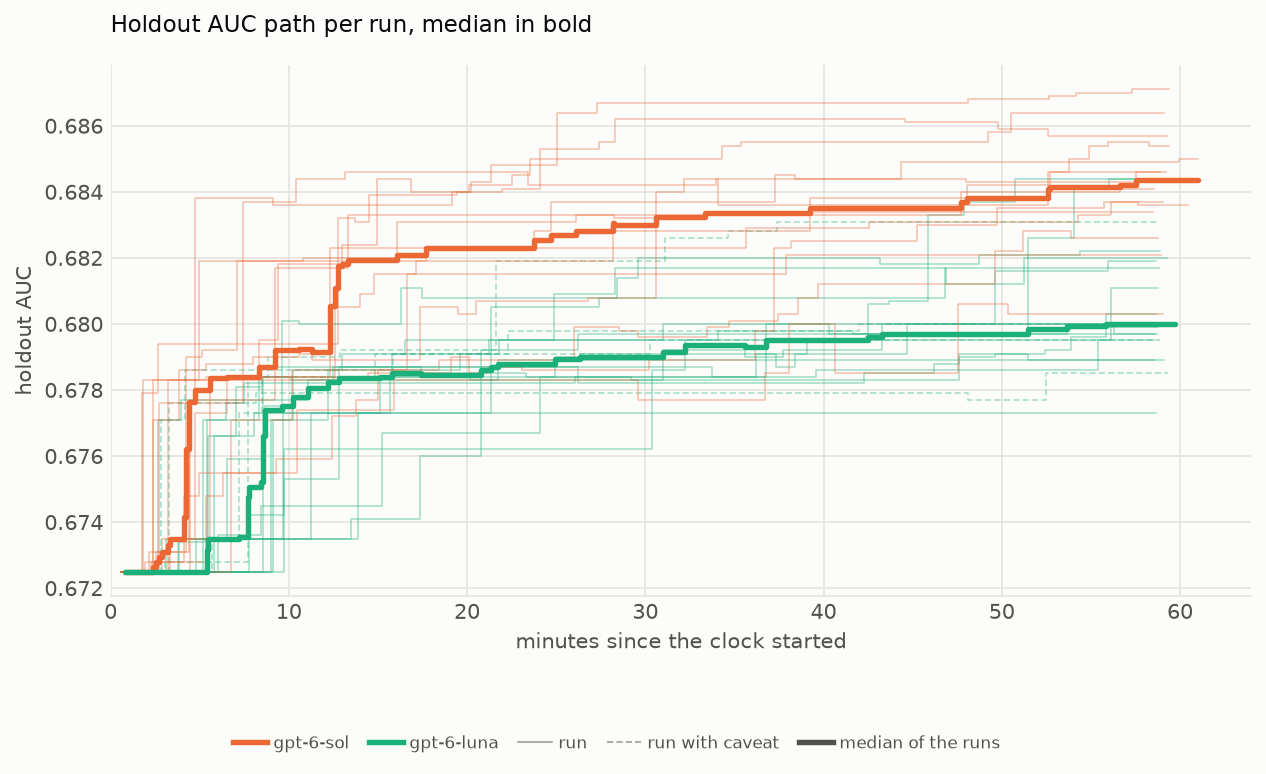
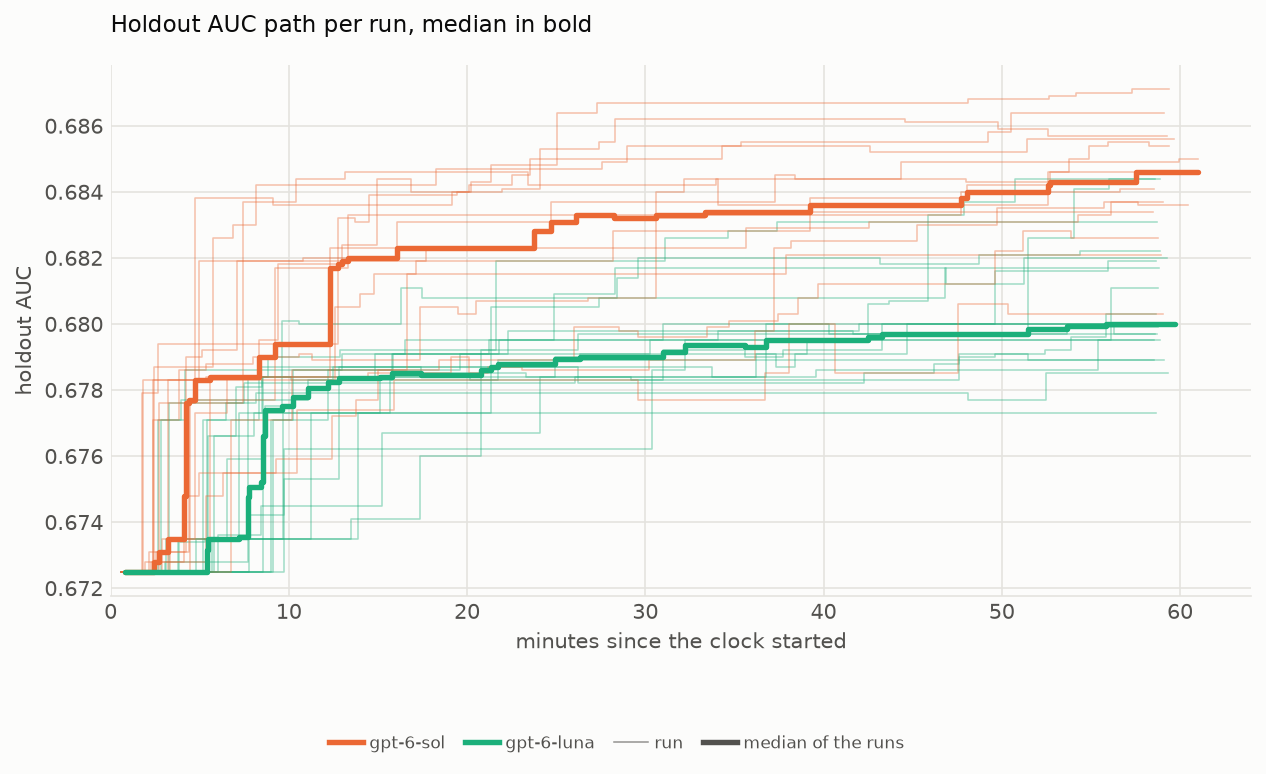
Plots mark caveats by kind; summary with luna6_n20 complete and sol6_n20 runs 1-15
- A caveat run is drawn like any other run unless its kind of caveat is in
  CAVEAT_MARKED (then hollow dot, dashed path). The kept ties of luna6_n20
  (keep_rule_tie) are in CAVEAT_PLAIN, so they are no longer marked.
- keep_rule is split by its source: flagged by the driver's checks (a kept
  lower Eval AUC) or added in the review for a tie (keep_rule_tie).
- summary_table.py warns about a caveat kind without a plotting rule, and
  /xgb-summary stops and asks; the legends show a caveat entry only when a
  run is marked.

diff --git a/tools/plot_holdout_auc.py b/tools/plot_holdout_auc.py
@@ -5,11 +5,12 @@ Reads each group's holdout_auc.tsv (written by /xgb-multi), the model from each
 run's driver-summary.json, the per-experiment scores from its
 holdout_scores.tsv and the harness timing from its timing/ folder. Groups with
 the same model are pooled (all runs are effort max). Runs with valid = "no" are
-left out; caveat runs are drawn hollow/dashed.
+left out. Caveat runs are drawn like any other run, unless one of their caveats
+is of a kind to be marked (see CAVEAT_MARKED): those are drawn hollow/dashed.
 
 run-multi/SUMMARY/holdout_auc_beeswarm.png - one row per model, one dot per run
-  (modelled on Fig. 1 of arXiv:2609.33812): a filled dot per valid run and a
-  hollow dot per caveat run, a grey bar over the full range, the mean with its
+  (modelled on Fig. 1 of arXiv:2609.33812): a filled dot per run and a hollow
+  dot per run with a marked caveat, a grey bar over the full range, the mean with its
   95% confidence interval (t) and the 10th/90th percentiles (nearest run) when
   the row has >= 5 runs.
 
@@ -50,6 +51,11 @@ SERIES = ["#2a78d6", "#eb6834", "#1baf7a", "#eda100", "#e87ba4", "#008300", "#4a
 # colour follows the model in every plot: add new models here with the next free slot;
 # models not listed get the remaining slots in sorted order (and a warning)
 MODEL_SLOT = {"gpt-6-astra": 0, "gpt-6-sol": 1, "gpt-6-luna": 2}
+# caveats by kind (see caveat_kinds): a run is drawn hollow/dashed unless all its caveats are in
+# CAVEAT_PLAIN. Each kind is decided once, when it first turns up: summary_table.py warns about a
+# kind that is in neither set. Never move a kind from one set to the other.
+CAVEAT_MARKED = set()
+CAVEAT_PLAIN = {"keep_rule_tie"}
 SURFACE, INK, INK2, GRID, RANGE = "#fcfcfb", "#0b0b0b", "#52514e", "#e4e3df", "#d9d8d3"
 OTHER_RUNS = "#bebdb7"  # the other models' runs behind each panel of the panels path plot
 MIN_N_STATS = 5  # interval and percentiles only from this many runs up
@@ -59,17 +65,38 @@ RUN_MULTI = Path(__file__).resolve().parent.parent / "run-multi"
 OUT_DIR = RUN_MULTI / "SUMMARY"
 
 
+def caveat_kinds(flags, summary):
+    """The caveats of a run: the flags of its holdout_auc.tsv row, with keep_rule split in two.
+
+    run_checks.py flags keep_rule itself only for a kept commit with a lower Eval AUC
+    (protocol_flags of driver-summary.json). A keep_rule that is in holdout_auc.tsv only
+    was added in the review, for a tie kept without being simpler or faster: keep_rule_tie.
+    """
+    kinds = [k.strip() for k in flags.split(",") if k.strip()]
+    if "keep_rule" not in summary.get("protocol_flags", "").split():
+        kinds = ["keep_rule_tie" if k == "keep_rule" else k for k in kinds]
+    return kinds
+
+
 def load_group(gdir):
-    """Runs of one group as dicts: run, dir, model, holdout, valid."""
+    """Runs of one group as dicts: run, dir, model, holdout, valid, marked (its caveats not in CAVEAT_PLAIN)."""
     runs = []
     with open(gdir / "holdout_auc.tsv") as f:
         for r in csv.DictReader(f, delimiter="\t"):
             if r["valid"] not in ("yes", "caveat") or not r["holdout_auc"]:
                 continue
             summary = json.loads((gdir / r["run"] / "driver-summary.json").read_text())
+            kinds = caveat_kinds(r.get("flags") or "", summary) if r["valid"] == "caveat" else []
             runs.append({"run": r["run"], "dir": gdir / r["run"], "model": summary["model"],
-                         "holdout": float(r["holdout_auc"]), "valid": r["valid"]})
+                         "holdout": float(r["holdout_auc"]), "valid": r["valid"],
+                         "marked": [k for k in kinds if k not in CAVEAT_PLAIN]})
     return runs
+
+
+def marked_label(runs):
+    """Legend label of the runs drawn hollow/dashed, None if there are none."""
+    kinds = sorted({k for r in runs for k in r["marked"]})
+    return f"run with caveat ({', '.join(kinds)})" if kinds else None
 
 
 def keep_path(run_dir):
@@ -173,7 +200,7 @@ def strip_plot(runs, colour):
         # diameter: marker size 46 pt^2 -> ~6.8 pt, plus the 1.4 pt edge, plus 0.6 pt of air
         dys = swarm_offsets(x, ax, y, np.sqrt(46) + 1.4 + 0.6)
         for r, dy in zip(rr, dys):
-            filled = r["valid"] == "yes"
+            filled = not r["marked"]
             ax.scatter(r["holdout"], y + dy, s=46, zorder=3, linewidths=1.4,
                        facecolors=colour[m] if filled else SURFACE, edgecolors=colour[m])
         mean = x.mean()
@@ -191,10 +218,11 @@ def strip_plot(runs, colour):
     ax.set_xlabel("holdout AUC", color=INK2)
     ax.grid(axis="x", color=GRID, lw=0.8)
     style(ax, "Holdout AUC per run")
+    caveat = marked_label(runs)
     legend = [
         Line2D([], [], marker="o", ls="", color=INK2, markersize=7, label="run"),
-        Line2D([], [], marker="o", ls="", markerfacecolor=SURFACE, markeredgecolor=INK2, markersize=7,
-               label="run with caveat"),
+        *([Line2D([], [], marker="o", ls="", markerfacecolor=SURFACE, markeredgecolor=INK2, markersize=7,
+                  label=caveat)] if caveat else []),
         Line2D([], [], marker="o", color=INK, markersize=5, lw=1.6, label=f"mean, 95% CI of the mean (n >= {MIN_N_STATS})"),
         Line2D([], [], marker="|", ls="", color=INK2, markersize=9, markeredgewidth=1.6, label="10th and 90th percentile"),
     ]
@@ -225,7 +253,7 @@ def draw_runs(ax, runs, colour_of, lw, alpha):
             continue
         t, auc = zip(*path)
         ax.step(list(t) + [end], list(auc) + [auc[-1]], where="post", color=colour_of(r),
-                lw=lw, alpha=alpha, ls="-" if r["valid"] == "yes" else (0, (4, 2)), zorder=2)
+                lw=lw, alpha=alpha, ls=(0, (4, 2)) if r["marked"] else "-", zorder=2)
 
 
 def draw_median(ax, runs, m, colour, lw=2.4):
@@ -252,9 +280,10 @@ def path_panels(runs, colour):
         ax.set_xlabel("minutes since the clock started", color=INK2)
     axes[0].set_ylabel("holdout AUC", color=INK2)
     fig.suptitle("Holdout AUC path per run, one panel per model", x=0.07, ha="left", color=INK, fontsize=11)
+    caveat = marked_label(runs)
     legend = [
         Line2D([], [], color=INK2, lw=0.9, label="run"),
-        Line2D([], [], color=INK2, lw=0.9, ls=(0, (4, 2)), label="run with caveat"),
+        *([Line2D([], [], color=INK2, lw=0.9, ls=(0, (4, 2)), label=caveat)] if caveat else []),
         Line2D([], [], color=INK2, lw=2.4, label="median of the runs"),
         Line2D([], [], color=OTHER_RUNS, alpha=0.8, lw=1.2, label="other models' runs"),
     ]
@@ -275,9 +304,10 @@ def path_median(runs, colour):
     ax.grid(color=GRID, lw=0.8)
     ax.set_xlim(left=0)
     style(ax, "Holdout AUC path per run, median in bold")
+    caveat = marked_label(runs)
     legend = [Line2D([], [], color=colour[m], lw=2.6, label=m) for m in models] + [
         Line2D([], [], color=INK2, lw=0.75, alpha=0.6, label="run"),
-        Line2D([], [], color=INK2, lw=0.75, alpha=0.6, ls=(0, (4, 2)), label="run with caveat"),
+        *([Line2D([], [], color=INK2, lw=0.75, alpha=0.6, ls=(0, (4, 2)), label=caveat)] if caveat else []),
         Line2D([], [], color=INK2, lw=2.6, label="median of the runs"),
     ]
     fig.legend(handles=legend, loc="lower center", bbox_to_anchor=(0.5, -0.02),
@@ -291,6 +321,9 @@ def main():
     if not runs:
         sys.exit(f"no valid runs in {RUN_MULTI}")
 
+    for k in sorted({k for r in runs for k in r["marked"]} - CAVEAT_MARKED):
+        print(f"warning: caveat {k} has no plotting rule (drawn as marked); add it to CAVEAT_MARKED or CAVEAT_PLAIN",
+              file=sys.stderr)
     colour = model_colours({r["model"] for r in runs})
     strip_plot(runs, colour)
     path_panels(runs, colour)

diff --git a/tools/summary_table.py b/tools/summary_table.py
@@ -12,12 +12,13 @@ Prints
   budget, memory cap), which should be the same for all runs that are compared;
 - the table, as markdown: one row per model, the best mean on top, AUCs rounded
   to 4 decimals, sd the sample standard deviation (n - 1);
-- NOTE lines for the caveats, the exclusions and valid runs with integrity
-  flags (to be explained in the run's run.md);
+- NOTE lines for the caveats (with how the plots draw them), the exclusions
+  and valid runs with integrity flags (to be explained in the run's run.md);
 - WARNING lines for anything that doesn't fit: a group that looks like a test,
   a row of holdout_auc.tsv that disagrees with the run's driver-summary.json, a
   valid run without a holdout AUC or of a failed driver, a run folder that is
-  not in holdout_auc.tsv, mixed settings.
+  not in holdout_auc.tsv, mixed settings, a caveat of a kind that has no
+  plotting rule yet (CAVEAT_MARKED / CAVEAT_PLAIN of plot_holdout_auc.py).
 
 Usage:
     tools/summary_table.py
@@ -28,7 +29,7 @@ import statistics as st
 import sys
 from collections import Counter, defaultdict
 
-from plot_holdout_auc import RUN_MULTI
+from plot_holdout_auc import CAVEAT_MARKED, CAVEAT_PLAIN, RUN_MULTI, caveat_kinds
 
 SETTINGS = ["codex_version", "effort", "upstream", "time_budget_s", "memory_limit_bytes"]
 
@@ -48,6 +49,7 @@ def main():
     notes, warnings = [], []
     models = defaultdict(lambda: {"groups": [], "holdout": [], "caveat": 0, "excluded": 0})
     settings = {k: Counter() for k in SETTINGS}
+    no_rule = defaultdict(list)  # caveat kind -> runs, for kinds the plots have no rule for
 
     print("groups:")
     for g in groups:
@@ -97,7 +99,15 @@ def main():
                     notes.append(f"{r['run']} is valid with integrity flags: {s['integrity_flags']}")
                 if valid == "caveat":
                     m["caveat"] += 1
-                    notes.append(f"{r['run']} caveat: {flags or 'no flags given'}")
+                    kinds = caveat_kinds(flags, s)
+                    marked = [k for k in kinds if k not in CAVEAT_PLAIN]
+                    notes.append(f"{r['run']} caveat: {flags or 'no flags given'}; in the plots: "
+                                 f"{'marked' if marked else 'as any other run'} ({', '.join(kinds) or 'no kind'})")
+                    for k in kinds:
+                        if k not in CAVEAT_MARKED | CAVEAT_PLAIN:
+                            no_rule[k].append(r["run"])
+                    if not kinds:
+                        warnings.append(f"{r['run']}: valid = caveat without flags")
                 elif flags:
                     warnings.append(f"{r['run']}: valid = yes with flags: {flags}")
             else:
@@ -110,6 +120,10 @@ def main():
             warnings.append(f"group {g.name} looks like a test group: its runs are pooled with all other {model} runs")
         print(f"  {g.name}: {model}, {len(rows)} runs: {n['yes'] + n['caveat']} valid "
               f"({n['caveat']} with caveat), {n['no']} excluded")
+
+    for k, runs in no_rule.items():
+        warnings.append(f"caveat {k} ({', '.join(runs)}) has no plotting rule: add it to CAVEAT_MARKED "
+                        "or CAVEAT_PLAIN in tools/plot_holdout_auc.py")
 
     print("\nsettings of the valid runs:")
     for k in SETTINGS:

diff --git a/.claude/skills/xgb-summary/SKILL.md b/.claude/skills/xgb-summary/SKILL.md
@@ -31,8 +31,9 @@ yourself: every number in the README comes from the scripts' output.
      archive/<group>`; do that only if I say so). Its runs would be pooled
      with all other runs of that model.
    - **a row of holdout_auc.tsv disagrees with driver-summary.json**, a wrong
-     gap, a `valid` that is not yes, caveat or no, or `valid` = yes with
-     flags: stop and tell me which rows. Don't correct the files yourself.
+     gap, a `valid` that is not yes, caveat or no, `valid` = yes with
+     flags, or `valid` = caveat without flags: stop and tell me which rows.
+     Don't correct the files yourself.
    - **a valid run without a holdout AUC**, or valid although the driver's
      status is failed: stop and tell me.
    - **mixed effort, upstream or time_budget_s**: stop and ask me. Runs at a
@@ -45,6 +46,17 @@ yourself: every number in the README comes from the scripts' output.
      the README notes that the group is in progress.
    - **more than one model in a group**, or a missing driver-summary.json:
      stop and tell me.
+   - **a caveat that has no plotting rule**: a kind of caveat that turns up
+     for the first time. Stop and ask me whether runs with it are to be
+     marked in the plots (hollow dots, dashed lines) or drawn like any other
+     run. Tell me what the caveat is and what it did to the result, from the
+     runs' run.md. Then add the kind to `CAVEAT_MARKED` or `CAVEAT_PLAIN` in
+     `tools/plot_holdout_auc.py` as I say, and run `summary_table.py` again.
+     Never move a kind that is already in one of the two sets. The kinds are
+     the flags of holdout_auc.tsv, except that `keep_rule` is split: it
+     stays `keep_rule` when the driver's own checks flagged it (a kept
+     commit with a lower Eval AUC) and is `keep_rule_tie` when it was added
+     in the review (a tie kept without being simpler or faster).
 
 2. Run `tools/plot_holdout_auc.py`, then `tools/pairwise_win_prob.py`. They
    write the PNGs to `run-multi/SUMMARY/`.
@@ -54,13 +66,15 @@ yourself: every number in the README comes from the scripts' output.
      model that is already there: the colour follows the model in all plots.
    - With fewer than two models there is no head-to-head plot. With fewer
      than 5 runs a model has no interval, percentile marks or median path.
-     Both are as intended.
+     The legends have a "run with caveat" entry only when a run is marked.
+     All are as intended.
 
 3. Look at every PNG in `run-multi/SUMMARY/` that was just written. Each
    model with valid runs must be there, with as many dots or lines as the
-   table has valid runs; nothing cut off, overlapping or unreadable; the
-   range of the dots in the beeswarm plot must match the table's min and
-   max. If a plot is wrong, tell me what is wrong. Don't restyle the plots
+   table has valid runs; the runs whose NOTE line says "marked" hollow
+   (dashed in the path plots) and no others; nothing cut off, overlapping
+   or unreadable; the range of the dots in the beeswarm plot must match the
+   table's min and max. If a plot is wrong, tell me what is wrong. Don't restyle the plots
    yourself.
 
 4. In README.md, replace everything between the lines
@@ -75,7 +89,8 @@ yourself: every number in the README comes from the scripts' output.
      the starter `train.py` scores 0.6725:"
    - The markdown table exactly as printed.
    - One short paragraph of notes, from the NOTE lines: which caveats there
-     are and how many runs carry each; how many runs were excluded and why,
+     are, how many runs carry each and whether the plots mark them; how
+     many runs were excluded and why,
      in a few words each (or "No run was excluded."); which groups are in
      progress; anything mixed from step 1. A valid run with integrity flags
      must be explained in its run.md: read it, and tell me if it is not.

diff --git a/README.md b/README.md
@@ -27,19 +27,21 @@ All runs with codex-cli 0.160.0 at effort max, a 24 GB container memory cap and 
 
 | model | groups | valid runs | excluded | holdout AUC mean | sd | min | median | max |
 |---|---|---|---|---|---|---|---|---|
-| gpt-6-sol | [sol6_n20](run-multi/sol6_n20/results_summary.md) | 14 | 0 | 0.6842 | 0.0018 | 0.6803 | 0.6844 | 0.6871 |
+| gpt-6-sol | [sol6_n20](run-multi/sol6_n20/results_summary.md) | 15 | 0 | 0.6843 | 0.0018 | 0.6803 | 0.6846 | 0.6871 |
 | gpt-6-luna | [luna6_n20](run-multi/luna6_n20/results_summary.md) | 20 (4 with caveat) | 0 | 0.6806 | 0.0019 | 0.6773 | 0.6800 | 0.6844 |
 
-Four runs carry a caveat, all `keep_rule` (commits kept at an equal Eval AUC without being simpler or faster): luna6_n20-6, -8, -15 and -18. No run was excluded. luna6_n20 is complete (20 runs); sol6_n20 is in progress, with 14 of its 20 runs reviewed so far. luna6_n20-1, -7, -11, -15 and sol6_n20-12 are valid with a `train_py_review` flag, a false match explained in their `run.md`. The test group test1 was moved to `archive/` and is not included. All valid runs have the same settings.
+Four runs carry a caveat, all `keep_rule` (commits kept at an equal Eval AUC without being simpler or faster): luna6_n20-6, -8, -15 and -18; the plots draw them like any other run. No run was excluded. luna6_n20 is complete (20 runs); sol6_n20 is in progress, with 15 of its 20 runs reviewed so far. luna6_n20-1, -7, -11, -15 and sol6_n20-12 are valid with a `train_py_review` flag, a false match explained in their `run.md`. The test group test1 was moved to `archive/` and is not included. All valid runs have the same settings.
 
 ![Holdout AUC per run](run-multi/SUMMARY/holdout_auc_beeswarm.png)
 <!-- xgb-summary: end -->
 
 Plots over all groups go to `run-multi/SUMMARY/`:
 
-- `holdout_auc_beeswarm.png`: one dot per run (hollow: with caveat), the mean with its 95% confidence interval and the 10th/90th percentiles per model;
+- `holdout_auc_beeswarm.png`: one dot per run, the mean with its 95% confidence interval and the 10th/90th percentiles per model;
 - `holdout_auc_pairwise.png`: head to head - the probability that one run of a model beats one run of another, with a 95% bootstrap interval;
 - `holdout_auc_path_panels.png`, `holdout_auc_path_median.png`: the holdout AUC of the kept model over the time of the run (minutes since its clock started) - per run in one panel per model, and all runs faded with the medians in bold.
+
+A run with a caveat is drawn like any other run, unless its kind of caveat is set to be marked: then its dot is hollow and its path dashed. Each kind is decided once, when it first turns up (`CAVEAT_MARKED` and `CAVEAT_PLAIN` in `tools/plot_holdout_auc.py`); a tie kept without being simpler or faster is not marked.
 
 They are made by `tools/plot_holdout_auc.py` (beeswarm and paths) and `tools/pairwise_win_prob.py` (head to head; it also prints the table), which read every group's `holdout_auc.tsv` and pool groups of the same model. The project skill `/xgb-summary` runs them, checks the group files and the plots, and rewrites the table above (`tools/summary_table.py`).
 
